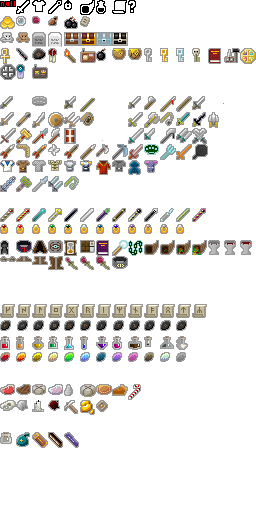
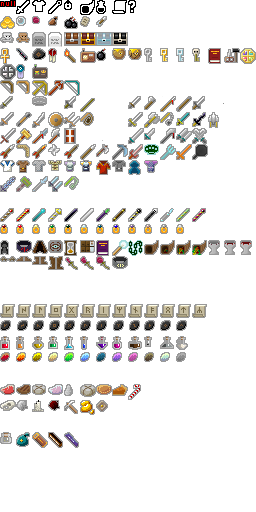
Various stuff

Changed region(s): [[0.0, 0.1562, 0.3125, 0.1875], [0.375, 0.0312, 0.4375, 0.0625]]

diff --git a/core/src/main/java/com/trashboxbobylev/tormentpixeldungeon/items/Arrow.java b/core/src/main/java/com/trashboxbobylev/tormentpixeldungeon/items/Arrow.java
@@ -1,0 +1,100 @@
+/*
+ * Pixel Dungeon
+ * Copyright (C) 2012-2015  Oleg Dolya
+ *
+ * Shattered Pixel Dungeon
+ * Copyright (C) 2014-2017 Evan Debenham
+ *
+ * This program is free software: you can redistribute it and/or modify
+ * it under the terms of the GNU General Public License as published by
+ * the Free Software Foundation, either version 3 of the License, or
+ * (at your option) any later version.
+ *
+ * This program is distributed in the hope that it will be useful,
+ * but WITHOUT ANY WARRANTY; without even the implied warranty of
+ * MERCHANTABILITY or FITNESS FOR A PARTICULAR PURPOSE.  See the
+ * GNU General Public License for more details.
+ *
+ * You should have received a copy of the GNU General Public License
+ * along with this program.  If not, see <http://www.gnu.org/licenses/>
+ */
+
+package com.trashboxbobylev.tormentpixeldungeon.items;
+
+import com.trashboxbobylev.tormentpixeldungeon.Assets;
+import com.trashboxbobylev.tormentpixeldungeon.Badges;
+import com.trashboxbobylev.tormentpixeldungeon.Dungeon;
+import com.trashboxbobylev.tormentpixeldungeon.actors.hero.Hero;
+import com.trashboxbobylev.tormentpixeldungeon.items.artifacts.MasterThievesArmband;
+import com.trashboxbobylev.tormentpixeldungeon.scenes.GameScene;
+import com.trashboxbobylev.tormentpixeldungeon.sprites.CharSprite;
+import com.trashboxbobylev.tormentpixeldungeon.sprites.ItemSpriteSheet;
+import com.watabou.noosa.audio.Sample;
+import com.watabou.utils.Bundle;
+import com.watabou.utils.Random;
+
+import java.util.ArrayList;
+
+public class Arrow extends Item {
+
+	private static final String TXT_VALUE	= "%+d";
+	
+	{
+		image = ItemSpriteSheet.ARROW;
+		stackable = true;
+	}
+	
+	public Arrow() {
+		this( 1 );
+	}
+	
+	public Arrow( int value ) {
+		this.quantity = value;
+	}
+	
+	@Override
+	public ArrayList<String> actions( Hero hero ) {
+		return new ArrayList<String>();
+	}
+	
+	@Override
+	public boolean doPickUp( Hero hero ) {
+		
+		Dungeon.arrows += quantity;
+
+		GameScene.pickUp( this, hero.pos );
+		hero.spendAndNext( TIME_TO_PICK_UP );
+		
+		return true;
+	}
+	
+	@Override
+	public boolean isUpgradable() {
+		return false;
+	}
+	
+	@Override
+	public boolean isIdentified() {
+		return true;
+	}
+	
+	@Override
+	public Item random() {
+		quantity = Random.Int( 30 + Dungeon.depth * 10, 60 + Dungeon.depth * 20 );
+		return this;
+	}
+	
+	private static final String VALUE	= "value";
+	
+	@Override
+	public void storeInBundle( Bundle bundle ) {
+		super.storeInBundle( bundle );
+		bundle.put( VALUE, quantity );
+	}
+	
+	@Override
+	public void restoreFromBundle( Bundle bundle ) {
+		super.restoreFromBundle(bundle);
+		quantity = bundle.getInt( VALUE );
+	}
+}

diff --git a/core/src/main/java/com/trashboxbobylev/tormentpixeldungeon/ui/ArrowIndicator.java b/core/src/main/java/com/trashboxbobylev/tormentpixeldungeon/ui/ArrowIndicator.java
@@ -1,0 +1,62 @@
+/*
+ * Pixel Dungeon
+ * Copyright (C) 2012-2015  Oleg Dolya
+ *
+ * Shattered Pixel Dungeon
+ * Copyright (C) 2014-2017 Evan Debenham
+ *
+ * This program is free software: you can redistribute it and/or modify
+ * it under the terms of the GNU General Public License as published by
+ * the Free Software Foundation, either version 3 of the License, or
+ * (at your option) any later version.
+ *
+ * This program is distributed in the hope that it will be useful,
+ * but WITHOUT ANY WARRANTY; without even the implied warranty of
+ * MERCHANTABILITY or FITNESS FOR A PARTICULAR PURPOSE.  See the
+ * GNU General Public License for more details.
+ *
+ * You should have received a copy of the GNU General Public License
+ * along with this program.  If not, see <http://www.gnu.org/licenses/>
+ */
+
+package com.trashboxbobylev.tormentpixeldungeon.ui;
+
+import com.trashboxbobylev.tormentpixeldungeon.Dungeon;
+import com.trashboxbobylev.tormentpixeldungeon.items.Arrow;
+
+public class ArrowIndicator extends Tag {
+	
+	private ItemSlot slot;
+	
+	public ArrowIndicator() {
+		super( 0x964F49);
+		
+		setSize( 24, 24 );
+		
+		visible = true;
+	}
+	
+	@Override
+	protected void createChildren() {
+		super.createChildren();
+		
+		slot = new ItemSlot();
+		add( slot );
+	}
+	
+	@Override
+	protected void layout() {
+		super.layout();
+		
+    	slot.setRect( x + 2, y + 3, width - 2, height - 6 );
+	}
+	
+	@Override
+	public void update() {
+	    Item arrow = new Arrow(Dungeon.arrows);
+        
+        slot.item(arrow);
+        slot.enable(Dungeon.hero.ready);
+		super.update();
+	}
+}

diff --git a/core/src/main/java/com/trashboxbobylev/tormentpixeldungeon/Dungeon.java b/core/src/main/java/com/trashboxbobylev/tormentpixeldungeon/Dungeon.java
@@ -172,6 +172,7 @@ public class Dungeon {
 	
 	public static int depth;
 	public static int gold;
+    public static int arrows;
 	
 	public static HashSet<Integer> chapters;
 
@@ -210,6 +211,7 @@ public class Dungeon {
 		
 		depth = 0;
 		gold = 0;
+        arrows = 0;
 
 		droppedItems = new SparseArray<ArrayList<Item>>();
 
@@ -454,6 +456,7 @@ public class Dungeon {
 	private static final String CHALLENGES	= "challenges";
 	private static final String HERO		= "hero";
 	private static final String GOLD		= "gold";
+	private static final String ARROWS		= "arrows";
 	private static final String DEPTH		= "depth";
 	private static final String DROPPED     = "dropped%d";
 	private static final String LEVEL		= "level";
@@ -499,6 +502,7 @@ public class Dungeon {
 			bundle.put( HERO, hero );
 			bundle.put( GOLD, gold );
 			bundle.put( DEPTH, depth );
+            bundle.put( ARROWS, arrows );
 
 			for (int d : droppedItems.keyArray()) {
 				bundle.put(Messages.format(DROPPED, d), droppedItems.get(d));
@@ -658,6 +662,7 @@ public class Dungeon {
 		
 		gold = bundle.getInt( GOLD );
 		depth = bundle.getInt( DEPTH );
+        arrows = bundle.getInt( ARROWS );
 		
 		Statistics.restoreFromBundle( bundle );
 		Generator.restoreFromBundle( bundle );

diff --git a/core/src/main/java/com/trashboxbobylev/tormentpixeldungeon/items/weapon/melee/Bow.java b/core/src/main/java/com/trashboxbobylev/tormentpixeldungeon/items/weapon/melee/Bow.java
@@ -1,0 +1,38 @@
+/*
+ * Pixel Dungeon
+ * Copyright (C) 2012-2015  Oleg Dolya
+ *
+ * Shattered Pixel Dungeon
+ * Copyright (C) 2014-2017 Evan Debenham
+ *
+ * This program is free software: you can redistribute it and/or modify
+ * it under the terms of the GNU General Public License as published by
+ * the Free Software Foundation, either version 3 of the License, or
+ * (at your option) any later version.
+ *
+ * This program is distributed in the hope that it will be useful,
+ * but WITHOUT ANY WARRANTY; without even the implied warranty of
+ * MERCHANTABILITY or FITNESS FOR A PARTICULAR PURPOSE.  See the
+ * GNU General Public License for more details.
+ *
+ * You should have received a copy of the GNU General Public License
+ * along with this program.  If not, see <http://www.gnu.org/licenses/>
+ */
+
+package com.trashboxbobylev.tormentpixeldungeon.items.weapon.melee;
+
+import com.trashboxbobylev.tormentpixeldungeon.sprites.ItemSpriteSheet;
+
+public class Bow extends MeleeWeapon {
+
+    public int minRanged(int lvl){
+        return tier + lvl;
+    }
+
+    public int maxRanged(int lvl){
+        return 5*(tier+1) +//base
+                     lvl*(tier+1); //scaling
+    }
+
+    
+}

diff --git a/core/src/main/java/com/trashboxbobylev/tormentpixeldungeon/sprites/ItemSpriteSheet.java b/core/src/main/java/com/trashboxbobylev/tormentpixeldungeon/sprites/ItemSpriteSheet.java
@@ -65,6 +65,7 @@ public class ItemSpriteSheet {
 	public static final int SANDBAG         = UNCOLLECTIBLE+3;
 	public static final int DBL_BOMB        = UNCOLLECTIBLE+4;
 	public static final int GUIDE_PAGE      = UNCOLLECTIBLE+5;
+    public static final int ARROW = UNCOLLECTIBLE+6;
 	static{
 		assignItemRect(GOLD,        15, 13);
 		assignItemRect(DEWDROP,     10, 10);
@@ -72,6 +73,7 @@ public class ItemSpriteSheet {
 		assignItemRect(SANDBAG,     10, 10);
 		assignItemRect(DBL_BOMB,    14, 13);
 		assignItemRect(GUIDE_PAGE,  10, 11);
+        assignItemRect(ARROW, 11, 12);
 	}
 
 	private static final int CONTAINERS     =                               xy(1, 3);   //16 slots

diff --git a/core/src/main/java/com/trashboxbobylev/tormentpixeldungeon/items/weapon/melee/GalacticSword.java b/core/src/main/java/com/trashboxbobylev/tormentpixeldungeon/items/weapon/melee/GalacticSword.java
@@ -111,13 +111,13 @@ public class GalacticSword extends MeleeWeapon {
                 
                 curUser.sprite.parent.add(
 				new Beam.GalacticRay(curUser.sprite.center(), DungeonTilemap.raisedTileCenterToWorld(shot.collisionPos)));
-                curUser.spendAndNext(curSword.DLY*2f);
+                curUser.spendAndNext(curSword.DLY*3f);
 					
 					Invisibility.dispel();
 
                    	Char ch = Actor.findChar(shot.collisionPos);
 		if (ch != null){
-			ch.damage(Math.round(curSword.damageRoll(ch)*1.5f), curSword);
+			curUser.attack(ch);
 		}
 				
 			}

diff --git a/core/src/main/java/com/trashboxbobylev/tormentpixeldungeon/items/Generator.java b/core/src/main/java/com/trashboxbobylev/tormentpixeldungeon/items/Generator.java
@@ -185,7 +185,8 @@ public class Generator {
 		ARTIFACT( 1,    Artifact.class),
 		SEED	( 0,    Plant.Seed.class ),
 		FOOD	( 0,    Food.class ),
-		GOLD	( 25,   Gold.class );
+		GOLD	( 25,   Gold.class ),
+        MISC   ( 20,    Item.class );
 		
 		public Class<?>[] classes;
 		public float[] probs;
@@ -337,7 +338,7 @@ public class Generator {
 					ChlorateEruption.class,
 					CobaltScytle.class
 			};
-			WEP_T5.probs = new float[]{ 6, 5, 5, 4, 3, 6 };
+			WEP_T7.probs = new float[]{ 6, 5, 5, 4, 3, 6 };
 
 			//see Generator.randomArmor
 			ARMOR.classes = new Class<?>[]{

diff --git a/core/src/main/java/com/trashboxbobylev/tormentpixeldungeon/ui/StatusPane.java b/core/src/main/java/com/trashboxbobylev/tormentpixeldungeon/ui/StatusPane.java
@@ -67,6 +67,7 @@ public class StatusPane extends Component {
 	private BitmapText depth;
 
 	private DangerIndicator danger;
+    private ArrowIndicator arrow;
 	private BuffIndicator buffs;
 	private Compass compass;
 
@@ -131,6 +132,9 @@ public class StatusPane extends Component {
 
 		danger = new DangerIndicator();
 		add( danger );
+
+        arrow = new ArrowIndicator();
+        add( arrow );
 
 		buffs = new BuffIndicator( Dungeon.hero );
 		add( buffs );
